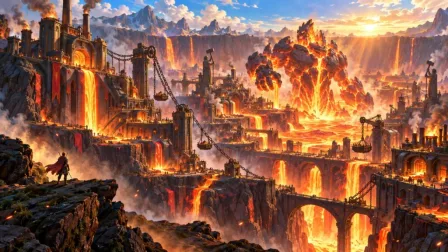
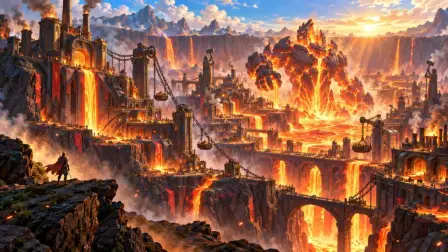
feat(open-plots): Ember Forge look loop R1-R2
G983's look loop on Ember Forge, rounds 1 and 2, ruled on the
recommended option (G872). Board: art/ember-forge/round-1-look-loop/
board-r2.jpg (R0 | R2 | codex target). The furnace lights by the dusk
graph (landmarkLight: "dusk"), its stone and iron swatches darker and
its lava deeper, so it reads charcoal with a lit door, not lilac-white.
The lava kind runs at 1.2 with small cores and a redder colour; the
canal walls' glow and the door pool are darker. A navy sky and fog,
ambient 1.4 and lighter blue-grey basalt; the lane bollards keep their
lit caps without pools. Draws 78-130 a view; wire under its ceiling
and no tile debt. Gaps kept: the door's peach (dusk lift), no stars or
reflections, far yards as dark boxes.

Assisted-by: Claude Code:claude-opus-5-5

Changed region(s): [[0.9375, 0.7222, 0.9688, 0.75], [0.75, 0.3056, 0.7812, 0.3333]]

diff --git a/scripts/blender/open-plots/furnace.py b/scripts/blender/open-plots/furnace.py
@@ -26,14 +26,15 @@ from landmarklib import atlas_image, export, far_copy, finish, triangles  # noqa
 
 HEIGHT = 35.0
 SEED = 17
-# sRGB swatches, lightest first (judged against art/grid/round-62-open-plot-palettes/17-ember-forge.jpg)
+# sRGB swatches, lightest first (judged against art/grid/round-62-open-plot-palettes/17-ember-forge.jpg); the stone, iron
+# and soot at 0.42 of their first values (OB4 look loop R1: the shared landmark fill lifted them to lilac-white at night)
 SWATCHES = {
-    'basalt': ['#4a4e58', '#3a3d46', '#2c2e36', '#202228'],
-    'stone': ['#5a5e6a', '#4a4e5a', '#3a3d48', '#2c2e38'],
-    'iron': ['#5a5f6a', '#464a54', '#363940', '#272a30'],
-    'lava': ['#ffb04a', '#ff8a2a', '#f06a1a', '#d84e10'],
+    'basalt': ['#1f2125', '#181a1d', '#121317', '#0d0e11'],
+    'stone': ['#26272d', '#1f2126', '#181a1e', '#121318'],
+    'iron': ['#26282d', '#1d1f23', '#17181b', '#101214'],
+    'lava': ['#ff8a24', '#f8661a', '#e04c0e', '#c03a08'],  # R2: deeper, so the dusk uplight keeps it molten, not peach
     'blue': ['#a8e4ff', '#7cd2ff', '#58bcf4', '#3aa2e0'],
-    'soot': ['#2a2420', '#221d1a', '#1a1614', '#13100e'],
+    'soot': ['#120f0d', '#0e0c0b', '#0b0908', '#080706'],
 }
 HALL = (-13.0, -9.0, 13.0, 9.0)  # x0, y0, x1, y1 of the hall body
 BASE, EAVE = 2.4, 13.0  # the plinth's top and the hall's eave

diff --git a/art/ember-forge/round-1-look-loop/README.md b/art/ember-forge/round-1-look-loop/README.md
@@ -1,0 +1,33 @@
+# Ember Forge · round 1 · the look loop (OB4, G983, 2026-11-03, sp-o3)
+
+LOOK-LOOP's nine angles about the plaza anchor P = (0, -40), 40 m south of the furnace hall: four first-person views
+from P (front faces the furnace's door), straight down, and four aerials 55 m out and 45 m up. 9-diag-back stands past
+the furnace, off its axis. Captured in the engine on the phone tier at 2x, as an iPhone 16 Pro.
+
+| File | What |
+|---|---|
+| `sheet-r0.jpg` | R0: the activated plot (`c33dc15dcc`) |
+| `sheet-t0.jpg` | T0: the targets, codex `image_gen` edits of R0, with round 62 as the style reference |
+| `sheet-r2.jpg` | R2: after rounds 1 and 2 |
+| `board-r2.jpg` | BEFORE (R0) · AFTER (R2) · TARGET for four of the angles |
+
+## Gaps (R0 against T0) and fixes
+
+- **The furnace rendered lilac-white.** The shared landmark graph's fill is about 3x and lilac. The row now lights its
+  landmark with the neutral dusk graph (`landmarkLight: "dusk"`, Bayou's), which also warms its foot with an uplight.
+  Its stone, iron and soot swatches are darker (0.42), and its lava swatches a deeper orange.
+- **Lava read as pale peach.** The lava graph's yellow cores, its intensity and the canal walls' additive glow washed it
+  out. Now: intensity 1.2, a redder molten colour (`#ff3c06`), small cores, and a darker wall glow and door pool.
+- **A pale grey sky; dark-on-dark yards.** The sky and fog go deep navy. The ambient is brighter (1.4), and the basalt
+  paving, courts and stone are a lighter blue-grey.
+- **Blue pools crowding the aerials.** The lane bollards keep their lit blue caps but lose their light pools; the lamp
+  pools are a darker blue.
+
+**Still gaps:**
+- The door glows peach where T0's is saturated molten orange (the dusk graph's warm-texel lift).
+- No stars: the sky is a gradient.
+- No reflections on the paving.
+- From afar the forge and ore yards' coarse stand-ins read as black boxes, with no lit windows.
+
+**Ruling (G872): R2 ships.** Draws are 78–130 a view. The phone wire stays under its 3,688,268 B ceiling, and the tile
+bake has no debt.
